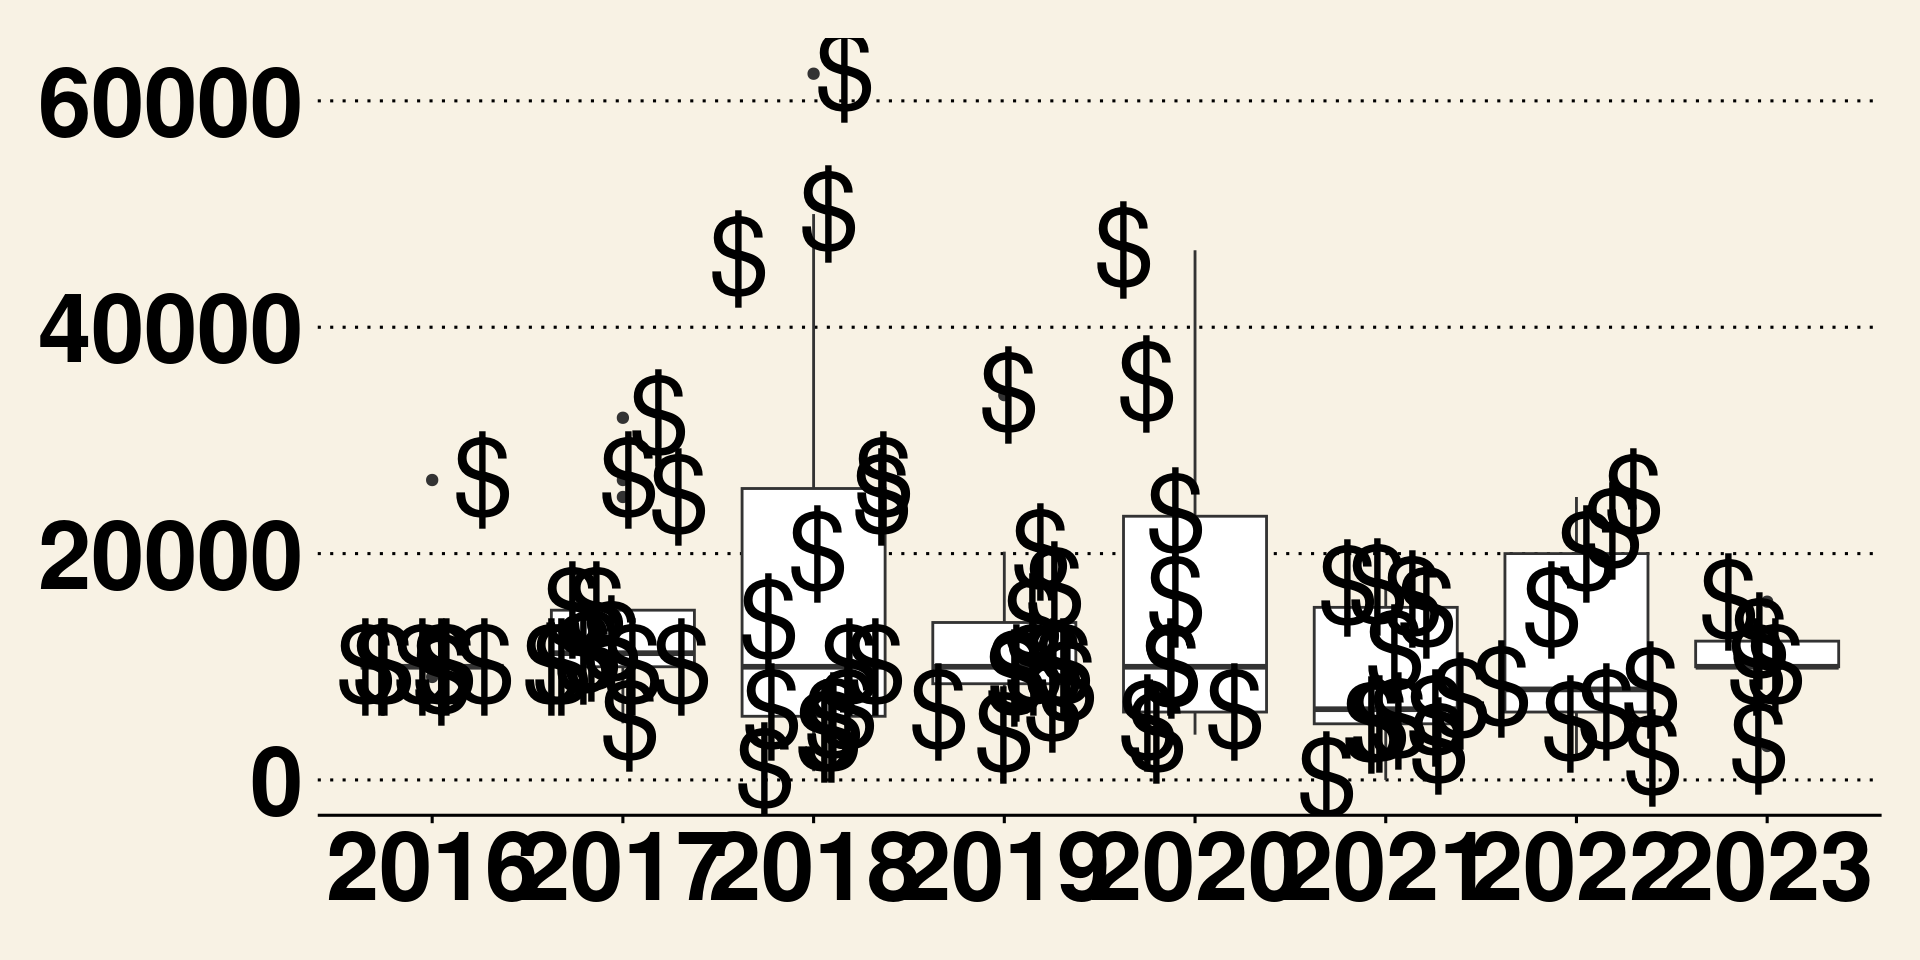
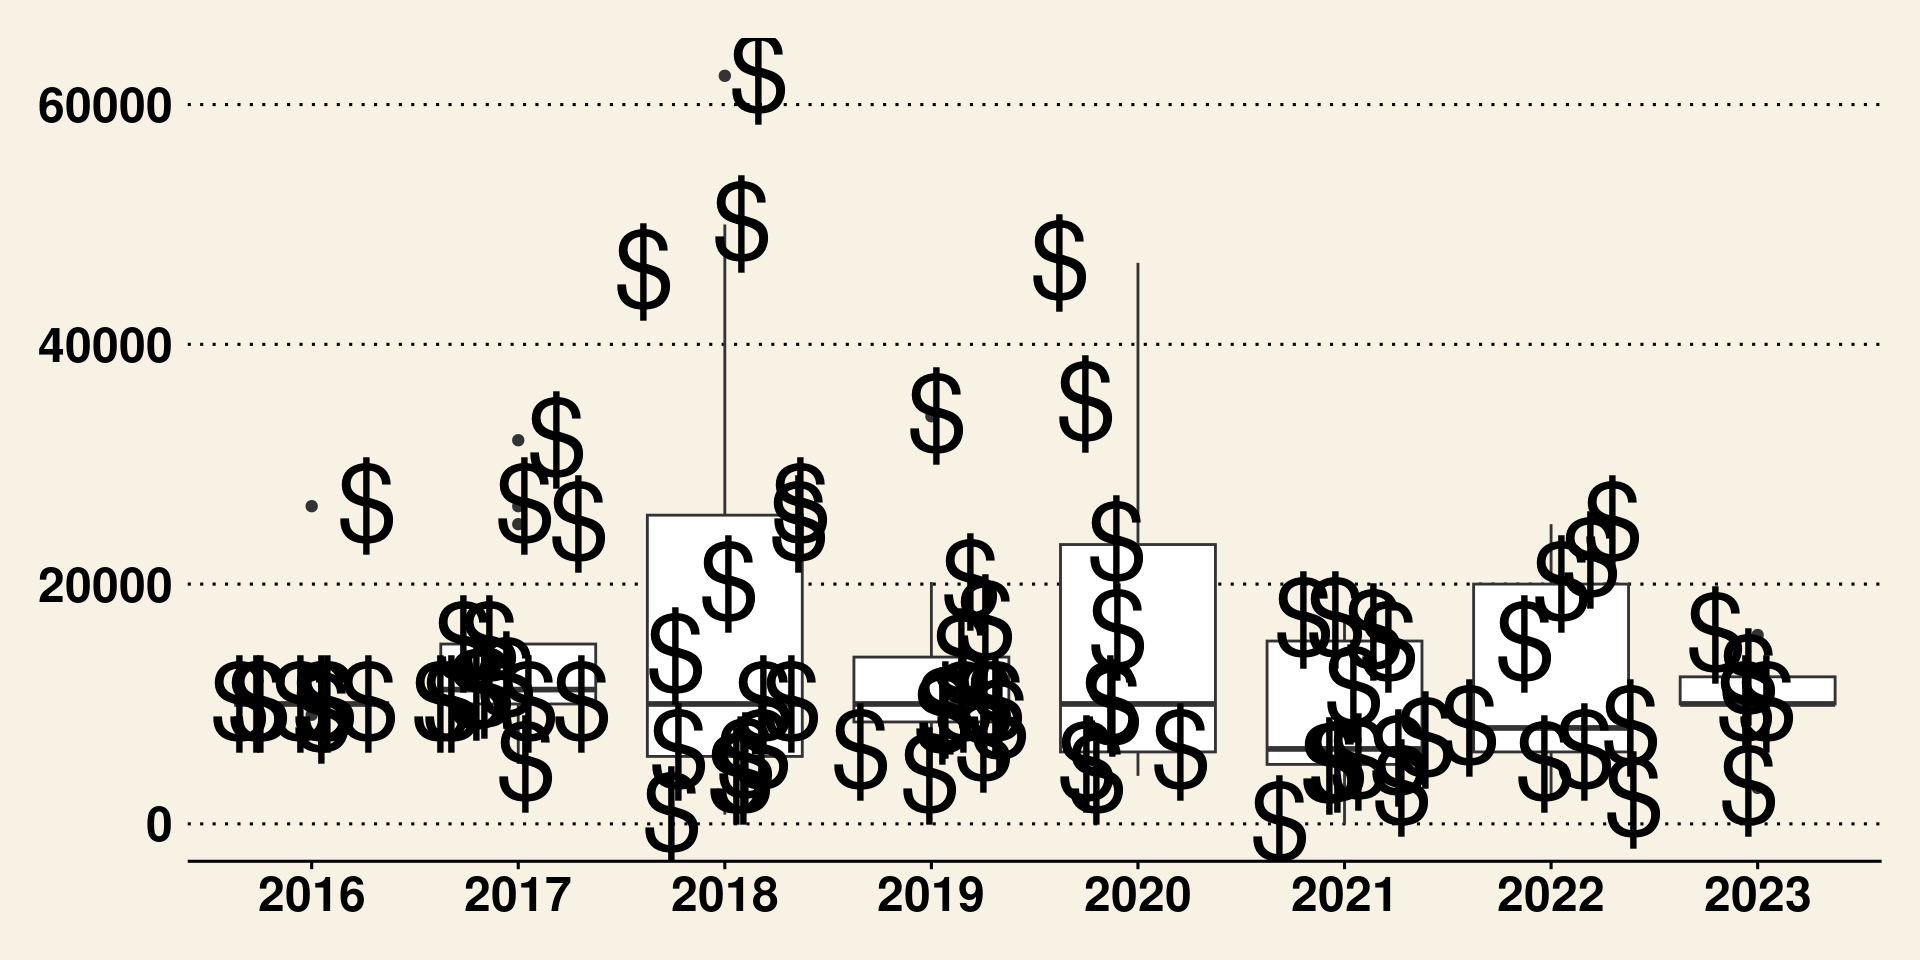
Updated Files

diff --git a/docs/posts/week_3.html b/docs/posts/week_3.html
@@ -491,7 +491,7 @@
 <span id="cb5-4"><a href="#cb5-4"></a>  <span class="fu">geom_jitter</span>(<span class="at">shape=</span><span class="st">"\u0024"</span>, <span class="at">size =</span> <span class="dv">14</span>) <span class="sc">+</span></span>
 <span id="cb5-5"><a href="#cb5-5"></a>  <span class="fu">xlab</span>(<span class="st">"Year"</span>) <span class="sc">+</span> <span class="fu">ylab</span>(<span class="st">"Funded Amount"</span>) <span class="sc">+</span></span>
 <span id="cb5-6"><a href="#cb5-6"></a>  <span class="fu">theme_wsj</span>() <span class="sc">+</span></span>
-<span id="cb5-7"><a href="#cb5-7"></a>  <span class="fu">theme</span>(<span class="at">axis.text =</span> <span class="fu">element_text</span>(<span class="at">size =</span> <span class="dv">36</span>))</span></code><button title="Copy to Clipboard" class="code-copy-button"><i class="bi"></i></button></pre></div>
+<span id="cb5-7"><a href="#cb5-7"></a>  <span class="fu">theme</span>(<span class="at">axis.text =</span> <span class="fu">element_text</span>(<span class="at">size =</span> <span class="dv">18</span>))</span></code><button title="Copy to Clipboard" class="code-copy-button"><i class="bi"></i></button></pre></div>
 </details>
 
 </div>

diff --git a/docs/index.html b/docs/index.html
@@ -182,7 +182,7 @@ ul.task-list li input[type="checkbox"] {
 
 <div class="quarto-listing quarto-listing-container-default" id="listing-listing">
 <div class="list quarto-listing-default">
-<div class="quarto-post image-right" data-index="0" data-categories="sp2024" data-listing-date-sort="1708502400000" data-listing-file-modified-sort="1708561853940" data-listing-date-modified-sort="NaN" data-listing-reading-time-sort="5" data-listing-word-count-sort="956">
+<div class="quarto-post image-right" data-index="0" data-categories="sp2024" data-listing-date-sort="1708502400000" data-listing-file-modified-sort="1708562222875" data-listing-date-modified-sort="NaN" data-listing-reading-time-sort="5" data-listing-word-count-sort="956">
 <div class="thumbnail">
 <p><a href="./posts/week_3.html" class="no-external"></a></p><a href="./posts/week_3.html" class="no-external">
 <p><img src="./posts/img/post3.png" class="thumbnail-image"></p>
